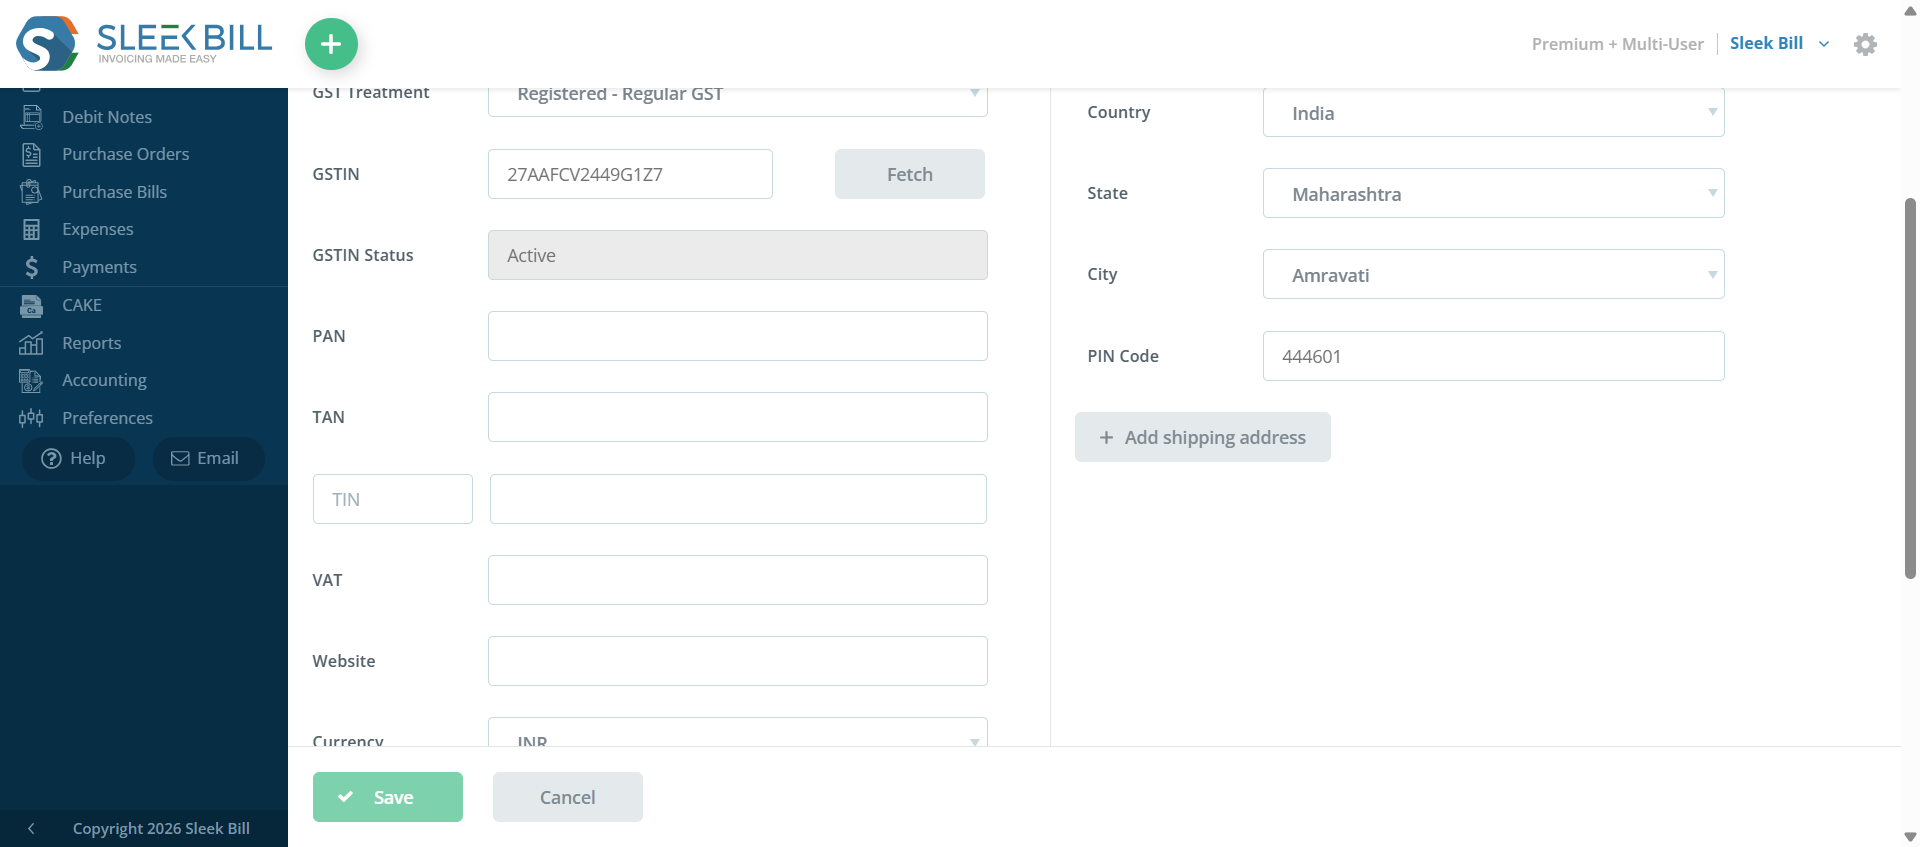
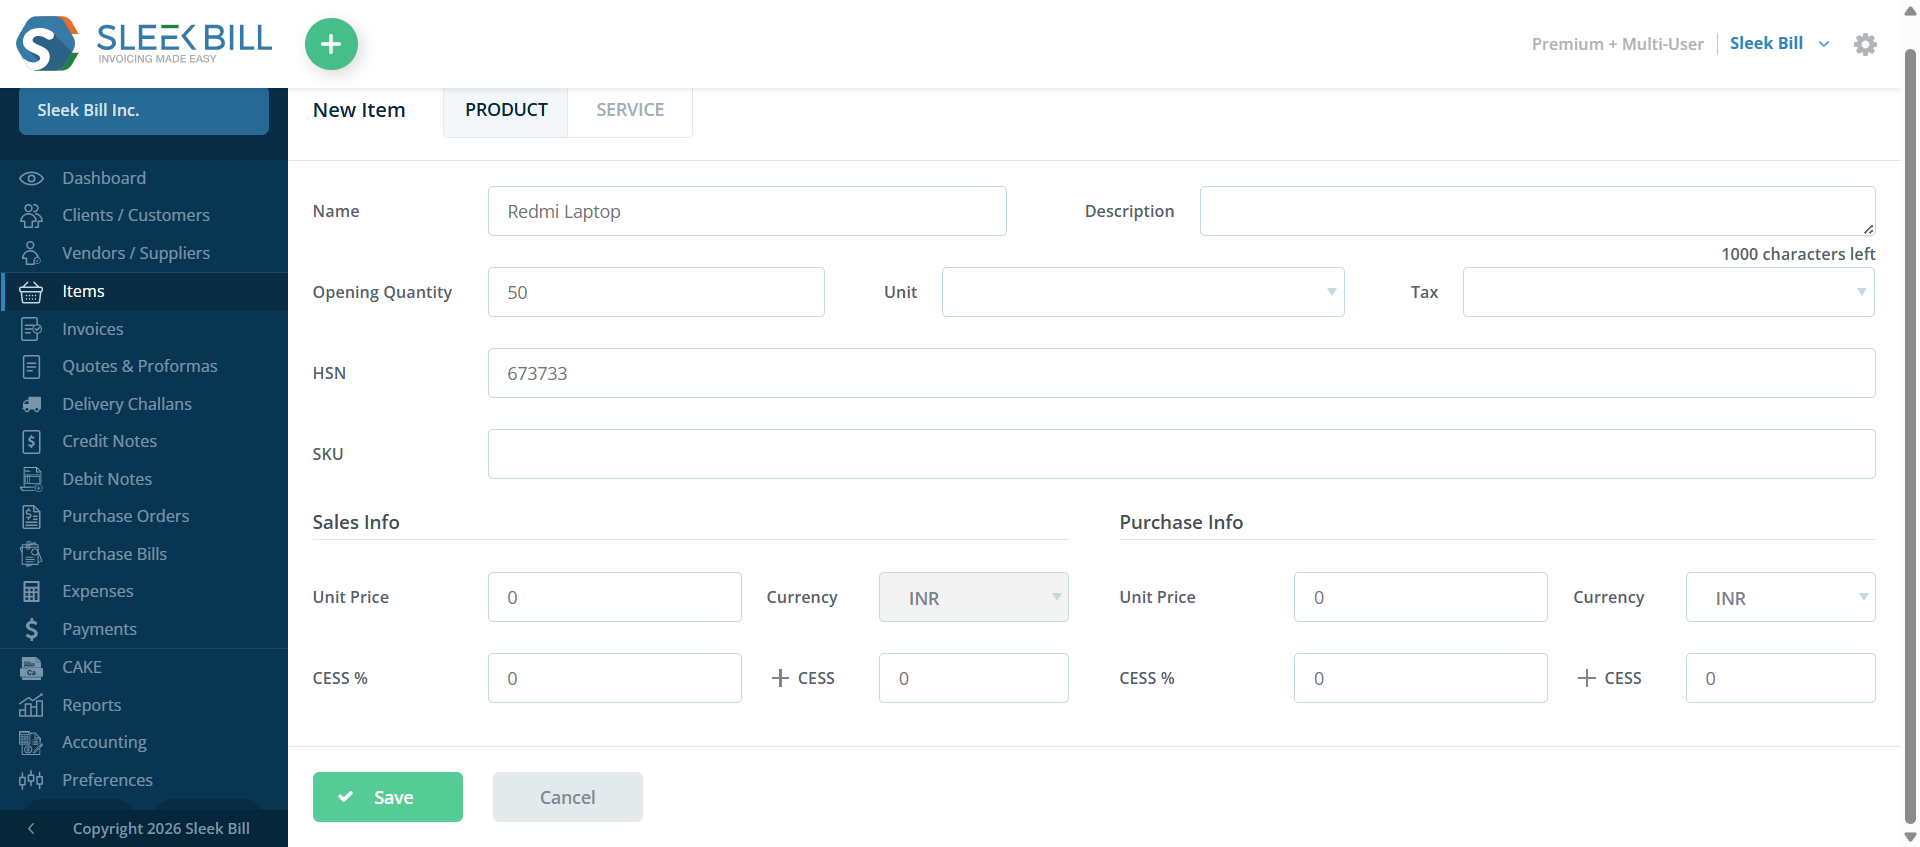
New commit

diff --git a/test-output/index.html b/test-output/index.html
@@ -50,7 +50,7 @@
               <ul>
                 <li>
                   <a href="#" panel-name="test-xml-Default_suite" class="navigator-link ">
-                    <span>C:\Users\MI\AppData\Local\Temp\testng-eclipse-269118371\testng-customsuite.xml</span>
+                    <span>C:\Users\MI\AppData\Local\Temp\testng-eclipse-1010445755\testng-customsuite.xml</span>
                   </a> <!-- navigator-link  -->
                 </li>
                 <li>
@@ -103,12 +103,12 @@
                     <div class="method-list-content passed suite-Default_suite">
                       <span>
                         <img src="passed.png" width="3%"/>
-                        <a href="#" panel-name="suite-Default_suite" title="TestClass.SleekBillTest" class="method navigator-link" hash-for-method="ClientTest">ClientTest</a> <!-- method navigator-link -->
+                        <a href="#" panel-name="suite-Default_suite" title="TestClass.SleekBillTest" class="method navigator-link" hash-for-method="LogTest">LogTest</a> <!-- method navigator-link -->
                       </span>
                       <br/>
                       <span>
                         <img src="passed.png" width="3%"/>
-                        <a href="#" panel-name="suite-Default_suite" title="TestClass.SleekBillTest" class="method navigator-link" hash-for-method="LogTest">LogTest</a> <!-- method navigator-link -->
+                        <a href="#" panel-name="suite-Default_suite" title="TestClass.SleekBillTest" class="method navigator-link" hash-for-method="ProductTest">ProductTest</a> <!-- method navigator-link -->
                       </span>
                       <br/>
                     </div> <!-- method-list-content passed suite-Default_suite -->
@@ -131,16 +131,16 @@
             <div class="main-panel-content rounded-window-bottom">
               <div class="method">
                 <div class="method-content">
-                  <a name="ClientTest">
-                  </a> <!-- ClientTest -->
-                  <span class="method-name">ClientTest</span>
+                  <a name="LogTest">
+                  </a> <!-- LogTest -->
+                  <span class="method-name">LogTest</span>
                 </div> <!-- method-content -->
               </div> <!-- method -->
               <div class="method">
                 <div class="method-content">
-                  <a name="LogTest">
-                  </a> <!-- LogTest -->
-                  <span class="method-name">LogTest</span>
+                  <a name="ProductTest">
+                  </a> <!-- ProductTest -->
+                  <span class="method-name">ProductTest</span>
                 </div> <!-- method-content -->
               </div> <!-- method -->
             </div> <!-- main-panel-content rounded-window-bottom -->
@@ -148,7 +148,7 @@
         </div> <!-- panel Default_suite -->
         <div panel-name="test-xml-Default_suite" class="panel">
           <div class="main-panel-header rounded-window-top">
-            <span class="header-content">C:\Users\MI\AppData\Local\Temp\testng-eclipse-269118371\testng-customsuite.xml</span>
+            <span class="header-content">C:\Users\MI\AppData\Local\Temp\testng-eclipse-1010445755\testng-customsuite.xml</span>
           </div> <!-- main-panel-header rounded-window-top -->
           <div class="main-panel-content rounded-window-bottom">
             <pre>
@@ -199,18 +199,18 @@ data.addColumn('string', 'Class');
 data.addColumn('number', 'Time (ms)');
 data.addRows(2);
 data.setCell(0, 0, 0)
-data.setCell(0, 1, 'ClientTest')
+data.setCell(0, 1, 'ProductTest')
 data.setCell(0, 2, 'TestClass.SleekBillTest')
-data.setCell(0, 3, 3230);
+data.setCell(0, 3, 3700);
 data.setCell(1, 0, 1)
 data.setCell(1, 1, 'LogTest')
 data.setCell(1, 2, 'TestClass.SleekBillTest')
-data.setCell(1, 3, 560);
+data.setCell(1, 3, 494);
 window.suiteTableData['Default_suite']= { tableData: data, tableDiv: 'times-div-Default_suite'}
 return data;
 }
               </script>
-              <span class="suite-total-time">Total running time: 3 seconds</span>
+              <span class="suite-total-time">Total running time: 4 seconds</span>
               <div id="times-div-Default_suite">
               </div> <!-- times-div-Default_suite -->
             </div> <!-- times-div -->
@@ -225,9 +225,16 @@ return data;
         </div> <!-- panel -->
         <div panel-name="ignored-methods-Default_suite" class="panel">
           <div class="main-panel-header rounded-window-top">
-            <span class="header-content">0 ignored methods</span>
+            <span class="header-content">1 ignored method</span>
           </div> <!-- main-panel-header rounded-window-top -->
           <div class="main-panel-content rounded-window-bottom">
+            <div class="ignored-class-div">
+              <span class="ignored-class-name">TestClass.SleekBillTest</span>
+              <div class="ignored-methods-div">
+                <span class="ignored-method-name">ClientTest</span>
+                <br/>
+              </div> <!-- ignored-methods-div -->
+            </div> <!-- ignored-class-div -->
           </div> <!-- main-panel-content rounded-window-bottom -->
         </div> <!-- panel -->
         <div panel-name="chronological-Default_suite" class="panel">
@@ -243,27 +250,27 @@ return data;
               </div> <!-- configuration-suite before -->
               <div class="configuration-class before">
                 <span class="method-name">Setup</span>
-                <span class="method-start">300 ms</span>
+                <span class="method-start">351 ms</span>
               </div> <!-- configuration-class before -->
               <div class="test-method">
                 <span class="method-name">LogTest</span>
-                <span class="method-start">4844 ms</span>
+                <span class="method-start">5883 ms</span>
               </div> <!-- test-method -->
               <div class="configuration-method after">
                 <span class="method-name">takescreenshot</span>
-                <span class="method-start">5406 ms</span>
+                <span class="method-start">6384 ms</span>
               </div> <!-- configuration-method after -->
               <div class="test-method">
-                <span class="method-name">ClientTest</span>
-                <span class="method-start">5590 ms</span>
+                <span class="method-name">ProductTest</span>
+                <span class="method-start">6654 ms</span>
               </div> <!-- test-method -->
               <div class="configuration-method after">
                 <span class="method-name">takescreenshot</span>
-                <span class="method-start">8823 ms</span>
+                <span class="method-start">10359 ms</span>
               </div> <!-- configuration-method after -->
               <div class="configuration-suite after">
                 <span class="method-name">endReport</span>
-                <span class="method-start">9031 ms</span>
+                <span class="method-start">10639 ms</span>
               </div> <!-- configuration-suite after -->
           </div> <!-- main-panel-content rounded-window-bottom -->
         </div> <!-- panel -->

diff --git a/test-output/emailable-report.html b/test-output/emailable-report.html
@@ -9,11 +9,11 @@
 <table>
 <tr><th>Test</th><th># Passed</th><th># Skipped</th><th># Retried</th><th># Failed</th><th>Time (ms)</th><th>Included Groups</th><th>Excluded Groups</th></tr>
 <tr><th colspan="8">Default suite</th></tr>
-<tr><td><a href="#t0">Default test</a></td><td class="num">2</td><td class="num">0</td><td class="num">0</td><td class="num">0</td><td class="num">8,725</td><td></td><td></td></tr>
+<tr><td><a href="#t0">Default test</a></td><td class="num">2</td><td class="num">0</td><td class="num">0</td><td class="num">0</td><td class="num">10,278</td><td></td><td></td></tr>
 </table>
-<table id='summary'><thead><tr><th>Class</th><th>Method</th><th>Start</th><th>Time (ms)</th></tr></thead><tbody><tr><th colspan="4">Default suite</th></tr></tbody><tbody id="t0"><tr><th colspan="4">Default test &#8212; passed</th></tr><tr class="passedeven"><td rowspan="2">TestClass.SleekBillTest</td><td><a href="#m0">ClientTest</a></td><td rowspan="1">1769876480958</td><td rowspan="1">3230</td></tr><tr class="passedeven"><td><a href="#m1">LogTest</a></td><td rowspan="1">1769876480212</td><td rowspan="1">560</td></tr></tbody>
+<table id='summary'><thead><tr><th>Class</th><th>Method</th><th>Start</th><th>Time (ms)</th></tr></thead><tbody><tr><th colspan="4">Default suite</th></tr></tbody><tbody id="t0"><tr><th colspan="4">Default test &#8212; passed</th></tr><tr class="passedeven"><td rowspan="2">TestClass.SleekBillTest</td><td><a href="#m0">LogTest</a></td><td rowspan="1">1771332533733</td><td rowspan="1">494</td></tr><tr class="passedeven"><td><a href="#m1">ProductTest</a></td><td rowspan="1">1771332534504</td><td rowspan="1">3700</td></tr></tbody>
 </table>
-<h2>Default test</h2><h3 id="m0">TestClass.SleekBillTest#ClientTest</h3><table class="result"><tr><th class="invisible"/></tr></table><p class="totop"><a href="#summary">back to summary</a></p>
-<h3 id="m1">TestClass.SleekBillTest#LogTest</h3><table class="result"><tr><th class="invisible"/></tr></table><p class="totop"><a href="#summary">back to summary</a></p>
+<h2>Default test</h2><h3 id="m0">TestClass.SleekBillTest#LogTest</h3><table class="result"><tr><th class="invisible"/></tr></table><p class="totop"><a href="#summary">back to summary</a></p>
+<h3 id="m1">TestClass.SleekBillTest#ProductTest</h3><table class="result"><tr><th class="invisible"/></tr></table><p class="totop"><a href="#summary">back to summary</a></p>
 </body>
 </html>

diff --git a/reports/ExtentReport.html b/reports/ExtentReport.html
@@ -35,7 +35,7 @@
 <a href="#"><span class="badge badge-primary">Automation Test Report</span></a>
 </li>
 <li class="m-r-10">
-<a href="#"><span class="badge badge-primary">Jan 31, 2026 09:51:15 PM</span></a>
+<a href="#"><span class="badge badge-primary">Feb 17, 2026 06:18:47 PM</span></a>
 </li>
 </ul>
 </div>
@@ -81,7 +81,7 @@
           <div class="test-detail">
             <p class="name">Login Test</p>
             <p class="text-sm">
-              <span>9:51:20 PM</span> / <span>00:00:00:000</span>
+              <span>6:18:53 PM</span> / <span>00:00:00:000</span>
               <span class="badge pass-bg log float-right">Pass</span>
             </p>
           </div>
@@ -90,8 +90,8 @@
 <div class="p-v-10">
 <div class="info">
 <h5 class="test-status text-pass">Login Test</h5>
-<span class='badge badge-success'>01.31.2026 9:51:20 PM</span>
-<span class='badge badge-danger'>01.31.2026 9:51:20 PM</span>
+<span class='badge badge-success'>02.17.2026 6:18:53 PM</span>
+<span class='badge badge-danger'>02.17.2026 6:18:53 PM</span>
 <span class='badge badge-default'>00:00:00:000</span>
 &middot; <span class='uri-anchor badge badge-default'>#test-id=1</span>
 <span class='badge badge-default pointer float-right ml-1 et'><i class="fa fa-chevron-down"></i></span>
@@ -114,13 +114,13 @@
 <div class="col-md-3">
 <div class="card"><div class="card-body">
 <p class="m-b-0">Started</p>
-<h3>Jan 31, 2026 09:51:15 PM</h3>
+<h3>Feb 17, 2026 06:18:47 PM</h3>
 </div></div>
 </div>
 <div class="col-md-3">
 <div class="card"><div class="card-body">
 <p class="m-b-0">Ended</p>
-<h3>Jan 31, 2026 09:51:24 PM</h3>
+<h3>Feb 17, 2026 06:18:58 PM</h3>
 </div></div>
 </div>
 <div class="col-md-3">

diff --git a/test-output/Default suite/Default test.html b/test-output/Default suite/Default test.html
@@ -57,9 +57,9 @@ function toggleAllBoxes() {
 <tr>
 <td>Tests passed/Failed/Skipped:</td><td>2/0/0</td>
 </tr><tr>
-<td>Started on:</td><td>Sat Jan 31 21:51:15 IST 2026</td>
+<td>Started on:</td><td>Tue Feb 17 18:18:48 IST 2026</td>
 </tr>
-<tr><td>Total time:</td><td>8 seconds (8725 ms)</td>
+<tr><td>Total time:</td><td>10 seconds (10278 ms)</td>
 </tr><tr>
 <td>Included groups:</td><td></td>
 </tr><tr>
@@ -79,12 +79,12 @@ function toggleAllBoxes() {
 <td title='TestClass.SleekBillTest.LogTest()'><b>LogTest</b><br>Test class: TestClass.SleekBillTest</td>
 <td></td>
 <td>0</td>
-<td>TestClass.SleekBillTest@65e98b1c</td></tr>
+<td>TestClass.SleekBillTest@1ff4931d</td></tr>
 <tr>
-<td title='TestClass.SleekBillTest.ClientTest()'><b>ClientTest</b><br>Test class: TestClass.SleekBillTest</td>
+<td title='TestClass.SleekBillTest.ProductTest()'><b>ProductTest</b><br>Test class: TestClass.SleekBillTest</td>
 <td></td>
 <td>3</td>
-<td>TestClass.SleekBillTest@65e98b1c</td></tr>
+<td>TestClass.SleekBillTest@1ff4931d</td></tr>
 </table><p>
 </body>
 </html>

diff --git a/src/main/java/com/pages/ProductPage.java b/src/main/java/com/pages/ProductPage.java
@@ -1,0 +1,91 @@
+ package com.pages;
+
+import java.time.Duration;
+
+import org.openqa.selenium.WebDriver;
+import org.openqa.selenium.WebElement;
+import org.openqa.selenium.support.FindBy;
+import org.openqa.selenium.support.PageFactory;
+import org.openqa.selenium.support.ui.ExpectedConditions;
+import org.openqa.selenium.support.ui.WebDriverWait;
+
+public class ProductPage extends Baseclass {
+    public WebDriver driver;
+    public ProductPage(WebDriver driver) {
+        this.driver = driver;
+        PageFactory.initElements(driver, this);
+    }
+    
+    @FindBy(xpath="//a[text()=\"Items\"]")
+    private WebElement itemsMenu;
+    
+    @FindBy(xpath="(//a[text()=\"New\"])[2]")
+    private WebElement newProductButton;
+
+    @FindBy(xpath = "//label[text()=\"Name\"]/following-sibling::input")
+    private WebElement nameInput;
+
+
+    @FindBy(xpath = "//label[text()=\"Opening Quantity\"]/following-sibling::input")
+    private WebElement openingQuantityInput;
+
+    @FindBy(xpath = "//label[text()='Unit']/following-sibling::div//div[contains(@class,'ember-power-select-trigger')]")
+    private WebElement unitDropdownTrigger;
+    
+    @FindBy(xpath = "//ul[contains(@class,'ember-power-select-options')]//li[contains(@class,'ember-power-select-option')]")
+    private java.util.List<WebElement> unitOptions;
+
+ 
+    @FindBy(xpath = "//label[text()=\"HSN\"]/following-sibling::input")
+    private WebElement hsnInput;
+
+    // Sales Info
+   @FindBy(xpath = "//label[text()='Unit Price']/following-sibling::input[@id='element537-salePrice']")
+    private WebElement salesUnitPriceInput;
+
+
+
+    @FindBy(xpath = "//button[@type='submit' and contains(text(),'Save')]")
+    private WebElement saveButton;
+
+
+    // Action methods
+    public void item() {
+    	WebDriverWait wait = new WebDriverWait(driver, Duration.ofSeconds(10));
+    	wait.until(ExpectedConditions.elementToBeClickable(itemsMenu)).click();
+    			itemsMenu.click();
+    }
+    public void newProduct() {
+		newProductButton.click();
+	}
+    
+    public void enterName(String name) {
+        nameInput.clear();
+        nameInput.sendKeys(name);
+    }
+
+    public void enterOpeningQuantity(String qty) {
+        openingQuantityInput.clear();
+        openingQuantityInput.sendKeys(qty);
+    }
+    public void selectUnitByText(String unitText) {
+        unitDropdownTrigger.click();
+        WebDriverWait wait = new WebDriverWait(driver, Duration.ofSeconds(10));
+        wait.until(ExpectedConditions.visibilityOfAllElements(unitOptions));
+        for (WebElement option : unitOptions) {
+            if (option.getText().trim().equalsIgnoreCase(unitText.trim())) {
+                option.click();
+                return;
+            }
+        }
+    }
+
+    public void enterHSN(String hsn) {
+        hsnInput.clear();
+        hsnInput.sendKeys(hsn);
+    }
+    
+    public void SaveButton() {
+    			saveButton.click();
+    }
+}

diff --git a/src/main/java/com/pages/SignupPage.java b/src/main/java/com/pages/SignupPage.java
@@ -1,0 +1,49 @@
+package com.pages;
+
+import org.openqa.selenium.WebDriver;
+import org.openqa.selenium.WebElement;
+import org.openqa.selenium.support.FindBy;
+import org.openqa.selenium.support.PageFactory;
+
+public class SignupPage extends Baseclass{
+    public WebDriver driver;
+    public SignupPage(WebDriver driver) {
+        this.driver = driver;
+        PageFactory.initElements(driver, this);
+    }
+
+    @FindBy(id = "signup-username")
+    private WebElement usernameField;
+
+    @FindBy(id = "signup-email")
+    private WebElement emailField;
+
+    @FindBy(id = "signup-password")
+    private WebElement passwordField;
+
+    @FindBy(id = "signup-confirm-password")
+    private WebElement confirmPasswordField;
+
+    @FindBy(xpath = "//button[text()='Sign up']")
+    private WebElement signupButton;
+
+    public void enterUsername(String username) {
+        usernameField.sendKeys(username);
+    }
+
+    public void enterEmail(String email) {
+        emailField.sendKeys(email);
+    }
+
+    public void enterPassword(String password) {
+        passwordField.sendKeys(password);
+    }
+
+    public void enterConfirmPassword(String confirmPassword) {
+        confirmPasswordField.sendKeys(confirmPassword);
+    }
+
+    public void clickSignup() {
+        signupButton.click();
+    }
+}

diff --git a/src/test/java/TestClass/SleekBillTest.java b/src/test/java/TestClass/SleekBillTest.java
@@ -4,6 +4,7 @@ import org.testng.annotations.Test;
 
 import com.pages.ClientsPage;
 import com.pages.LoginPage;
+import com.pages.ProductPage;
 
 import utils.ExtentReport;
 public class SleekBillTest extends com.pages.Baseclass {
@@ -18,12 +19,25 @@ lp.passmethod("Test1@sleekbill");
 lp.signin();
 }
 
-@Test(dependsOnMethods="LogTest")
+@Test(enabled=false)
 public void ClientTest() {
 ClientsPage client= new ClientsPage(driver);
 client.clientbuton();
 client.GSTINFieleddmethod("27AAFCV2449G1Z7");
 String actualTitle = driver.getTitle();
 System.out.println(actualTitle);
+}
+
+@Test
+public void ProductTest() {
+ProductPage product= new ProductPage(driver);
+product.item();
+product.newProduct();
+product.enterName("Redmi Laptop");
+product.enterOpeningQuantity("50");
+product.enterHSN("673733");
+product.SaveButton();
+//product.selectTax();
+
 }
 }
